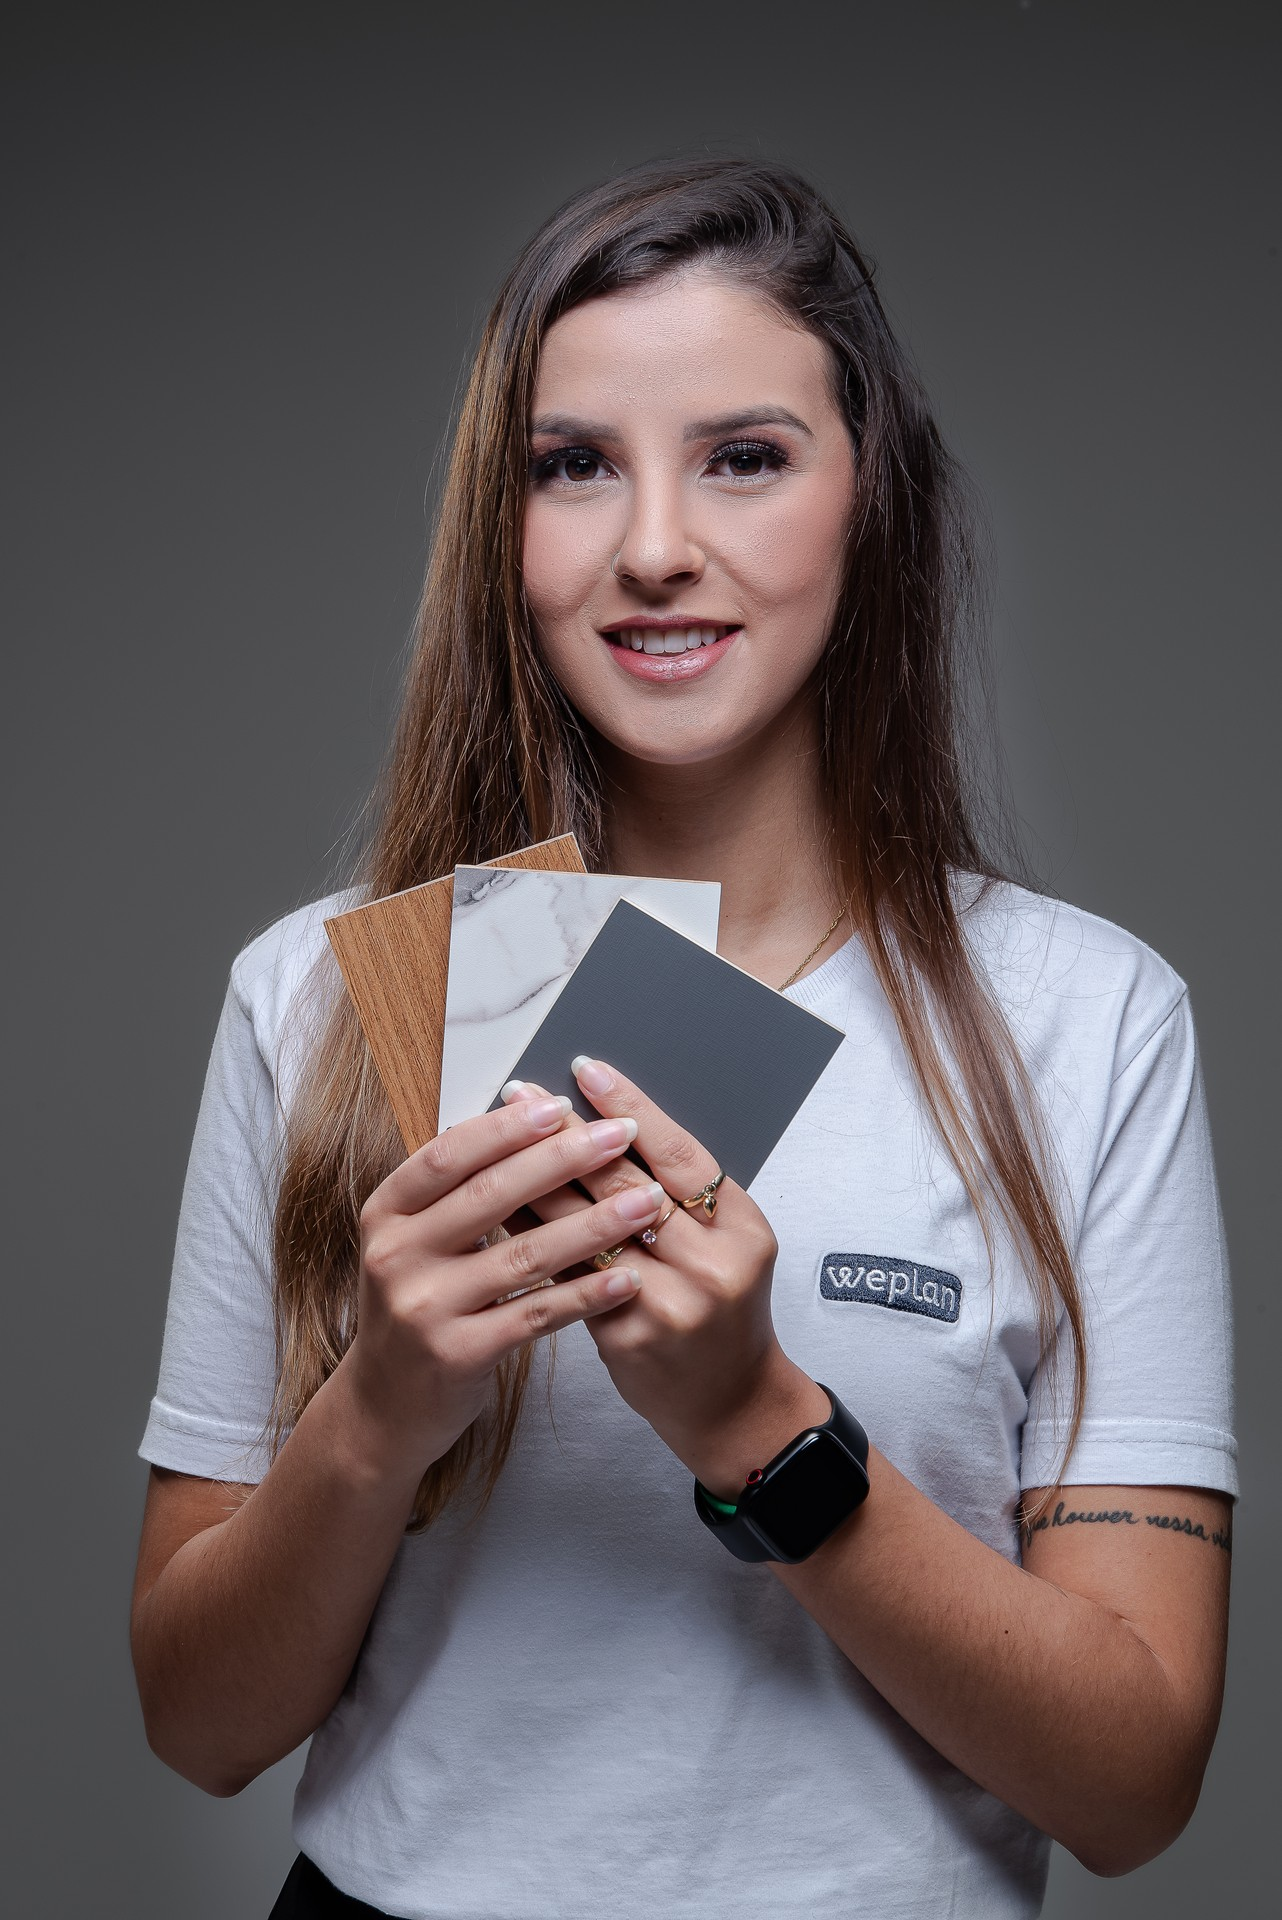
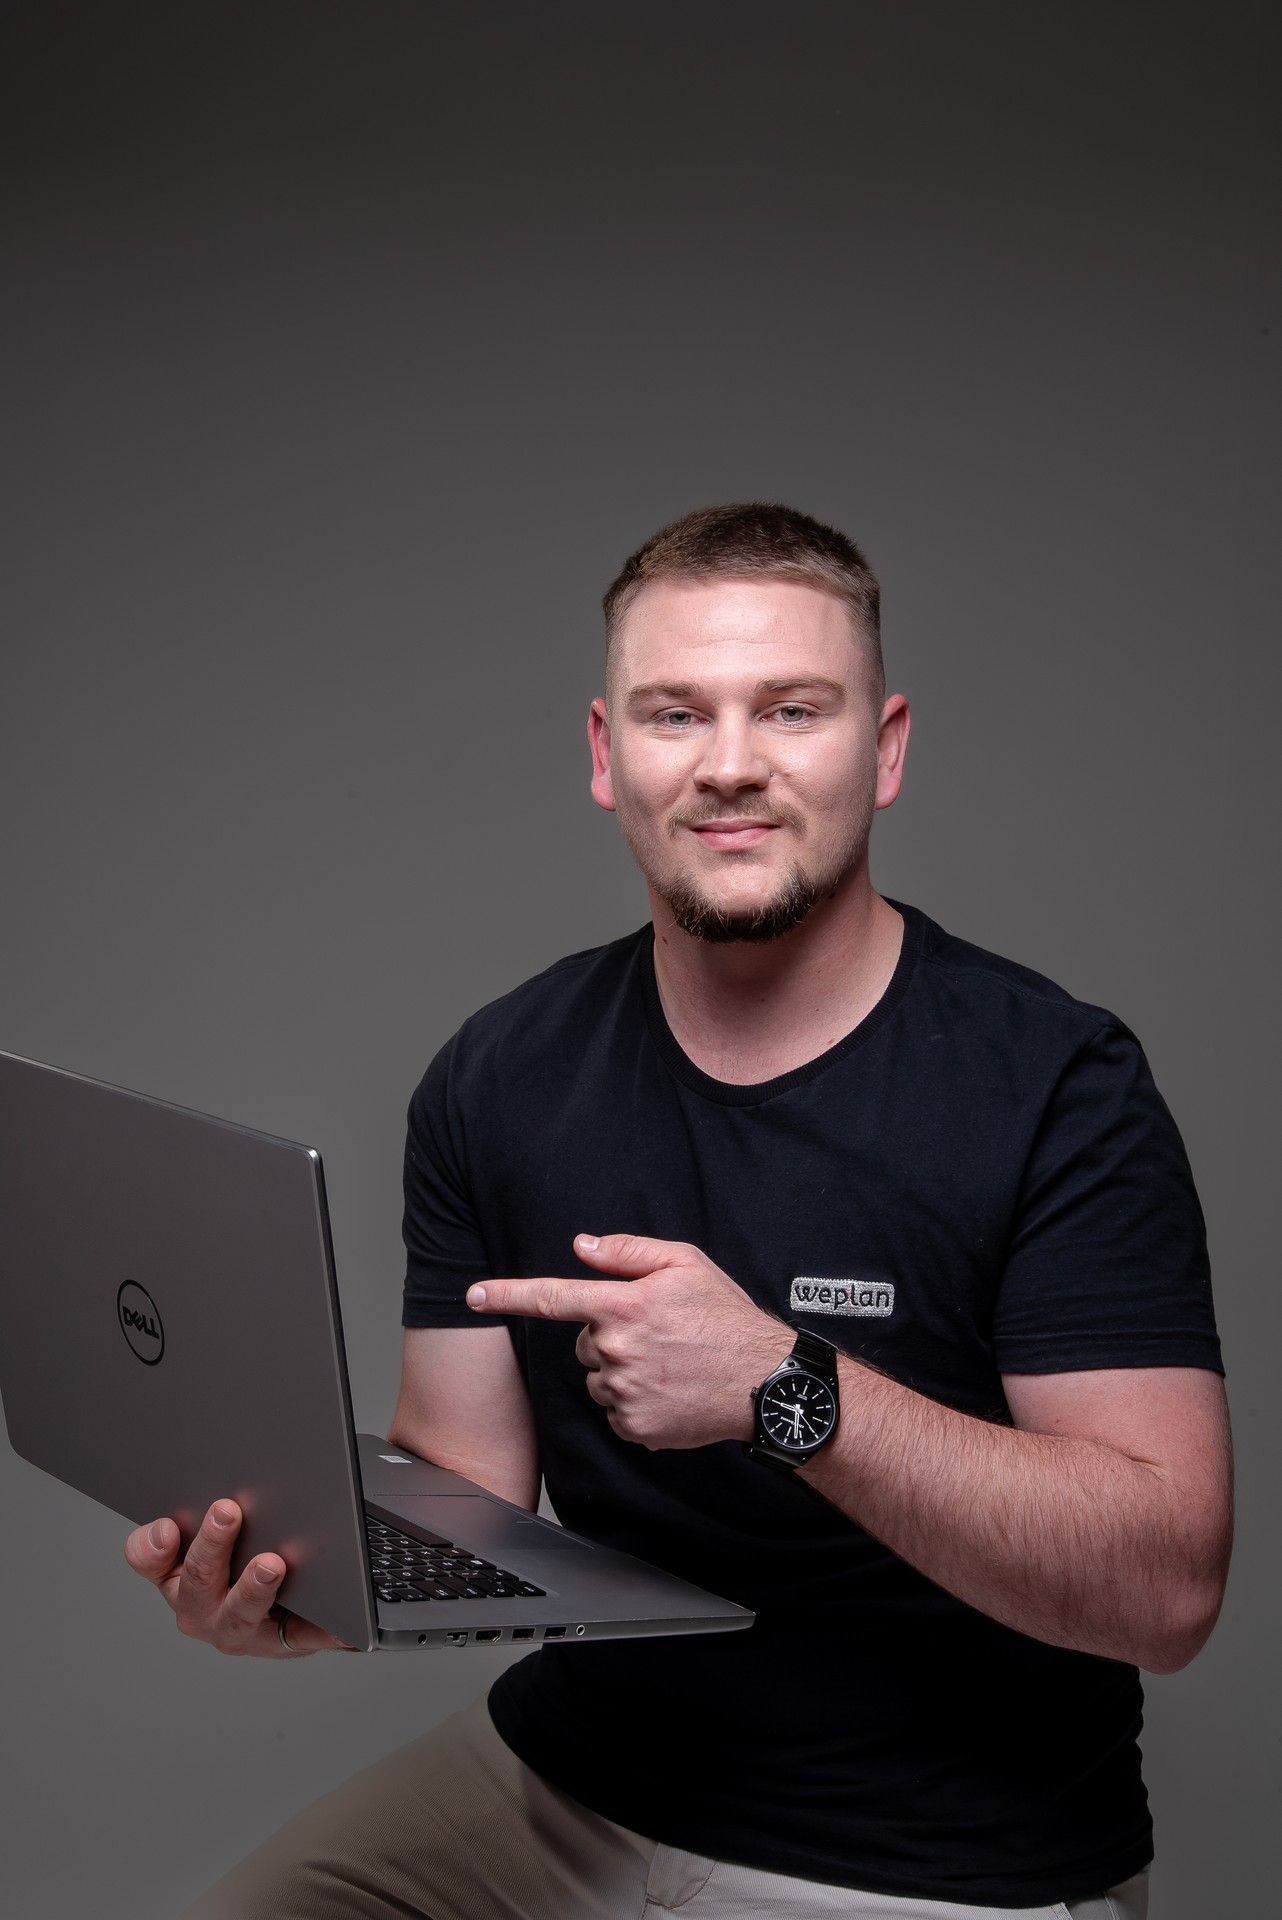
Improved images

diff --git a/pages/como-funciona.vue b/pages/como-funciona.vue
@@ -268,17 +268,17 @@ export default {
 }
 
 #img-vantagem-velocidade {
-  background-image: url('~/assets/images/vantagem-velocidade.webp');
+  background-image: url('~/assets/images/vantagem-velocidade.jpg');
   height: 600px;
 }
 
 #img-vantagem-qualidade {
-  background-image: url('~/assets/images/vantagem-qualidade.webp');
+  background-image: url('~/assets/images/vantagem-qualidade.jpg');
   height: 600px;
 }
 
 #img-vantagem-facilidade {
-  background-image: url('~/assets/images/vantagem-facilidade.webp');
+  background-image: url('~/assets/images/vantagem-facilidade.jpg');
   height: 600px;
 }
 </style>
